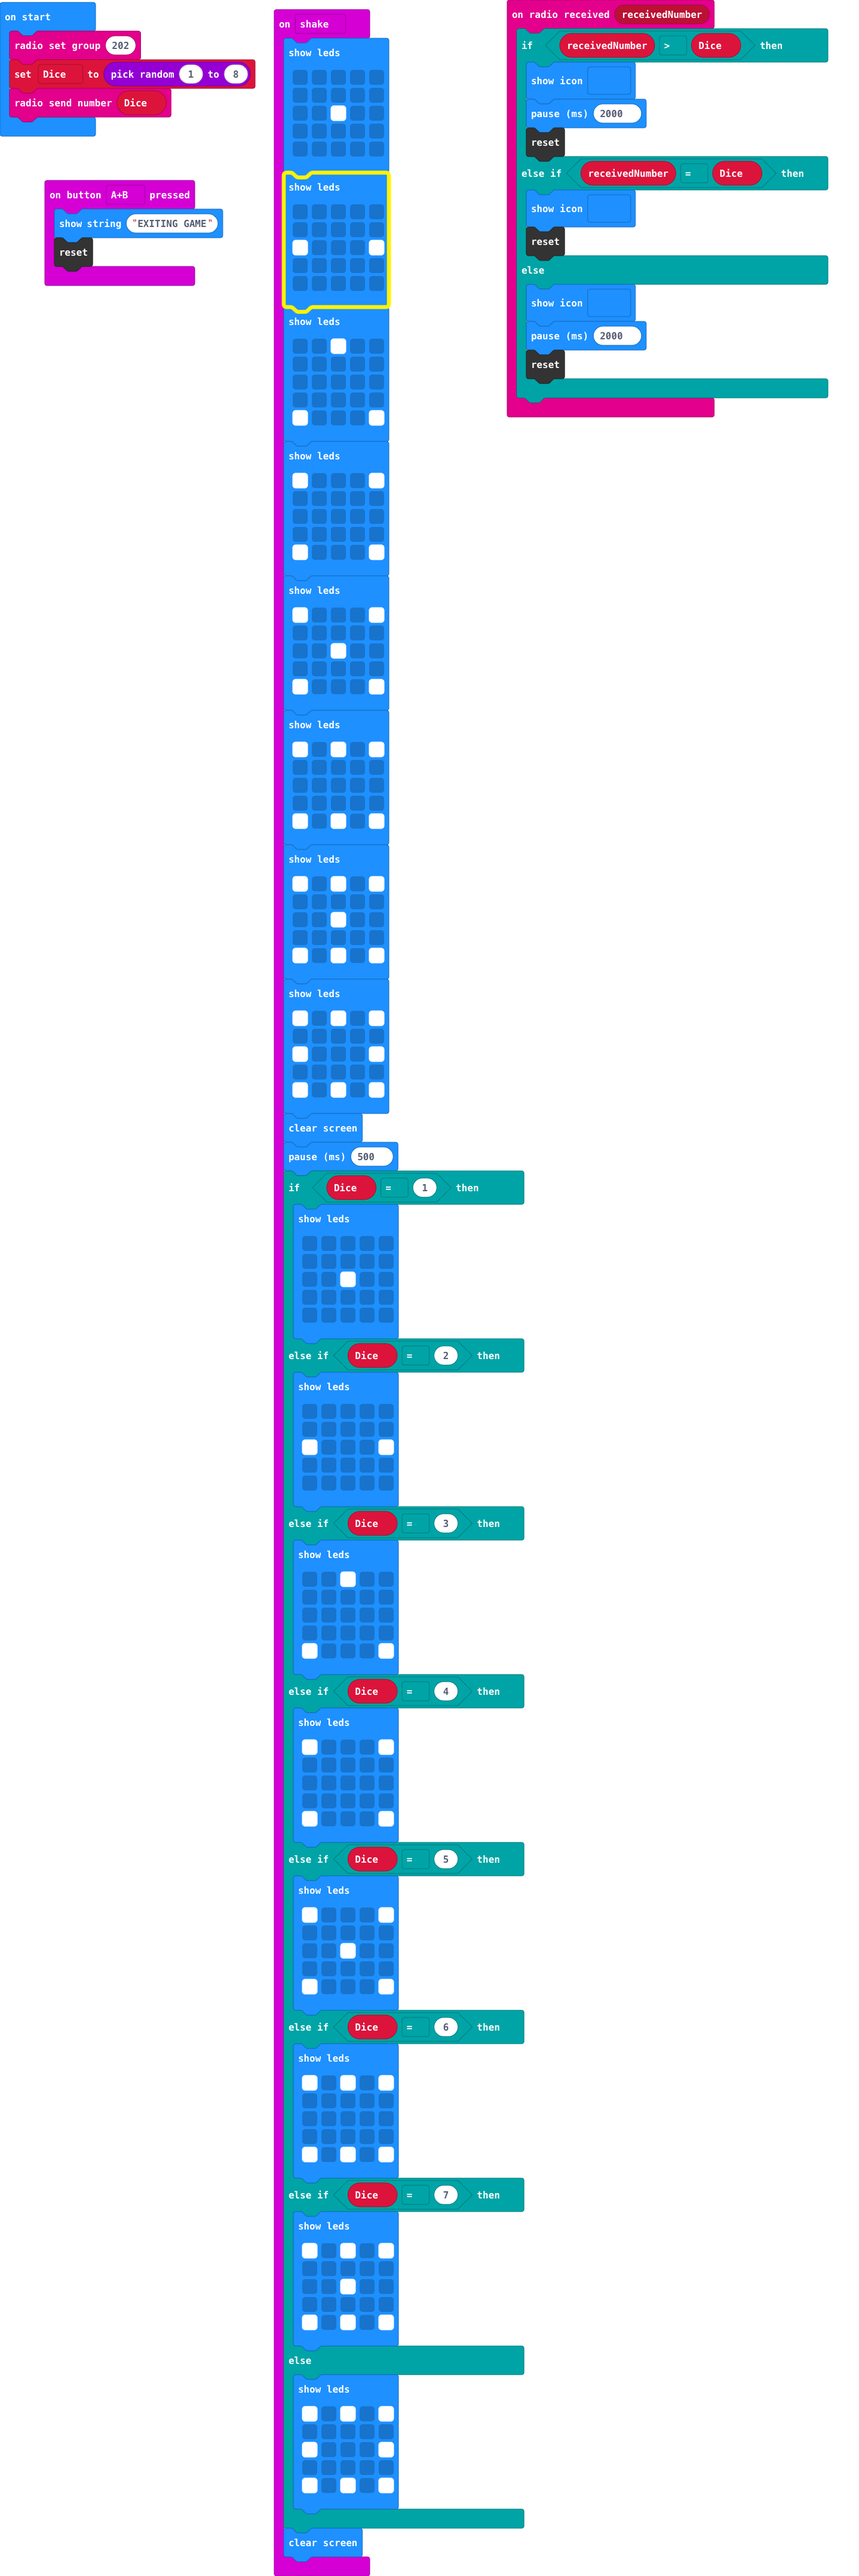
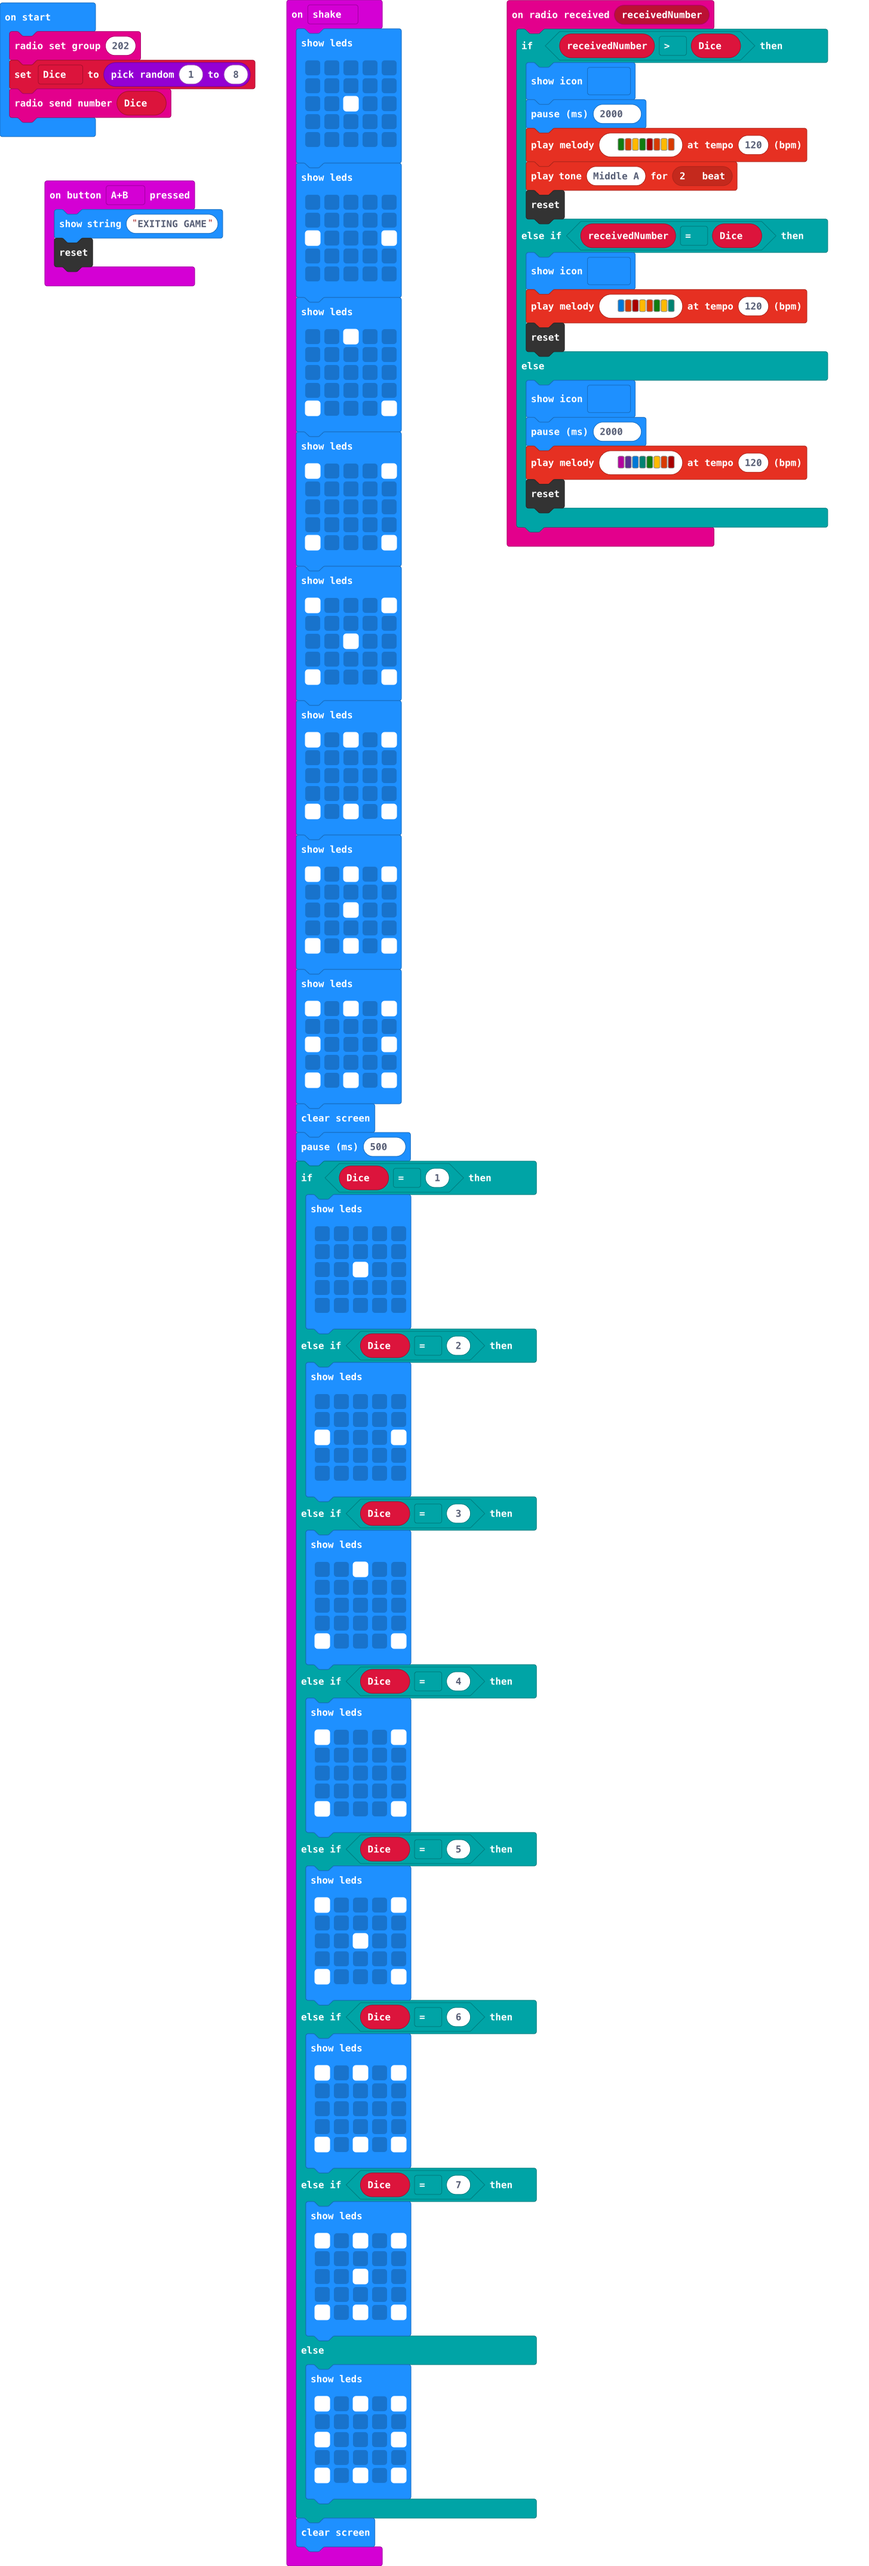
Update main.blocks, main.ts

Changed region(s): [[0.0, 0.0, 0.612, 1.0], [0.5814, 0.0, 0.9791, 0.2183], [0.9485, 0.0, 0.9791, 0.0312]]

diff --git a/main.ts b/main.ts
@@ -2,13 +2,17 @@ radio.onReceivedNumber(function (receivedNumber) {
     if (receivedNumber > Dice) {
         basic.showIcon(IconNames.Sad)
         basic.pause(2000)
+        music.playMelody("G B A G C5 B A B ", 120)
+        music.playTone(440, music.beat(BeatFraction.Double))
         control.reset()
     } else if (receivedNumber == Dice) {
         basic.showIcon(IconNames.Asleep)
+        music.playMelody("E B C5 A B G A F ", 120)
         control.reset()
     } else {
         basic.showIcon(IconNames.Happy)
         basic.pause(2000)
+        music.playMelody("C D E F G A B C5 ", 120)
         control.reset()
     }
 })
